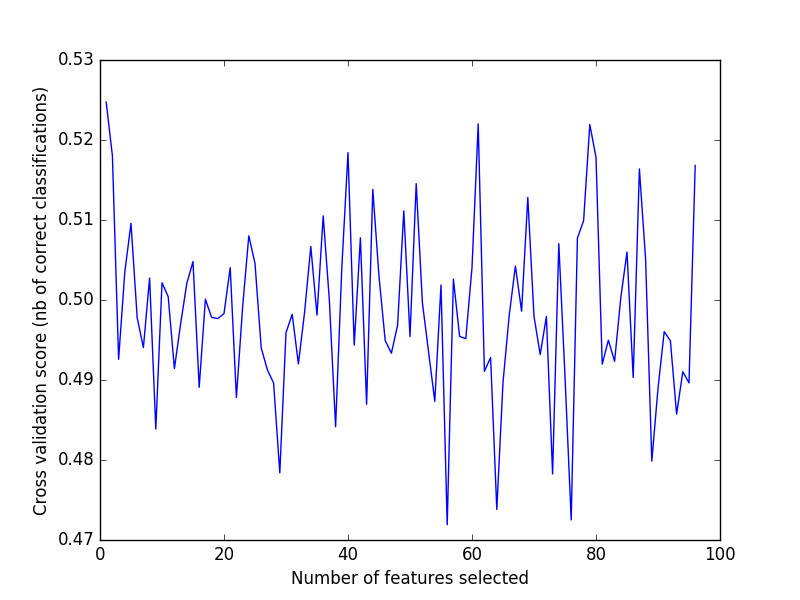
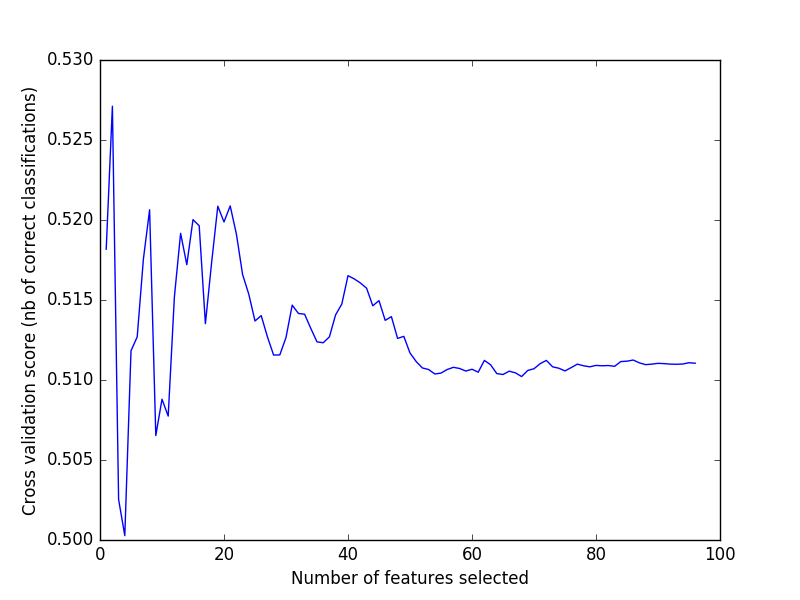
Fix 2

diff --git a/2.py b/2.py
@@ -6,6 +6,7 @@ from pprint import pprint
 from prepare_data import PrepareData
 from sklearn import datasets, svm
 from sklearn.ensemble import RandomForestClassifier
+from sklearn.svm import SVC
 from sklearn.cross_validation import StratifiedKFold
 from sklearn.feature_selection import SelectPercentile, f_classif, SelectKBest, chi2, RFECV
 from sklearn_patch import RandomForestClassifierWithCoef
@@ -22,7 +23,7 @@ if __name__ == "__main__":
     X_indices = np.arange(X.shape[-1])
 
     ## Chi2 test
-    selector = SelectKBest(chi2, k=100)
+    selector = SelectKBest(chi2, k=20)
     selector.fit(X, y)
     scores = selector.scores_
     pvalues = -np.log10(selector.pvalues_)
@@ -52,7 +53,7 @@ if __name__ == "__main__":
     result_df_2save.to_csv("./result/2_chi2.csv", index=False)
 
     ## RF
-    clf = RandomForestClassifierWithCoef(n_estimators=3000, n_jobs=-1)
+    clf = RandomForestClassifierWithCoef(n_estimators=10000, n_jobs=-1)
     clf.fit(X, y)
     svm_weights = clf.feature_importances_ * 100
     svm_weights /= svm_weights.max()
@@ -91,7 +92,7 @@ if __name__ == "__main__":
 
     ## Save rf csv
     data2save = []
-    for f in range(0, 100):
+    for f in range(0, 20):
         data2save.append([indices[f], index_data[indices[f]], svm_weights[indices[f]]])
 
     result_df_2save = pd.DataFrame(data=data2save, columns=["index", "name", "importance"])
@@ -99,15 +100,16 @@ if __name__ == "__main__":
 
     ## Selected the best number of feature
     # rf = RandomForestClassifier(n_estimators=2000, n_jobs=-1)
-    # rfecv = RFECV(estimator=rf, step=100, cv=StratifiedKFold(y, 2),
-    #           scoring='roc_auc')
-    # rfecv.fit(X, y)
-    # print("Optimal number of features : %d" % rfecv.n_features_)
-    # plt.figure()
-    # plt.xlabel("Number of features selected")
-    # plt.ylabel("Cross validation score (nb of correct classifications)")
-    # plt.plot(range(1, len(rfecv.grid_scores_) + 1), rfecv.grid_scores_)
-    # plt.savefig("2_rfecv.png")
-    # plt.show()
+    svc = SVC(kernel="linear")
+    rfecv = RFECV(estimator=svc, step=100, cv=StratifiedKFold(y, 2),
+              scoring='roc_auc')
+    rfecv.fit(X, y)
+    print("Optimal number of features : %d" % rfecv.n_features_)
+    plt.figure()
+    plt.xlabel("Number of features selected")
+    plt.ylabel("Cross validation score (nb of correct classifications)")
+    plt.plot(range(1, len(rfecv.grid_scores_) + 1), rfecv.grid_scores_)
+    plt.savefig("2_rfecv.png")
+    plt.show()
 
 
